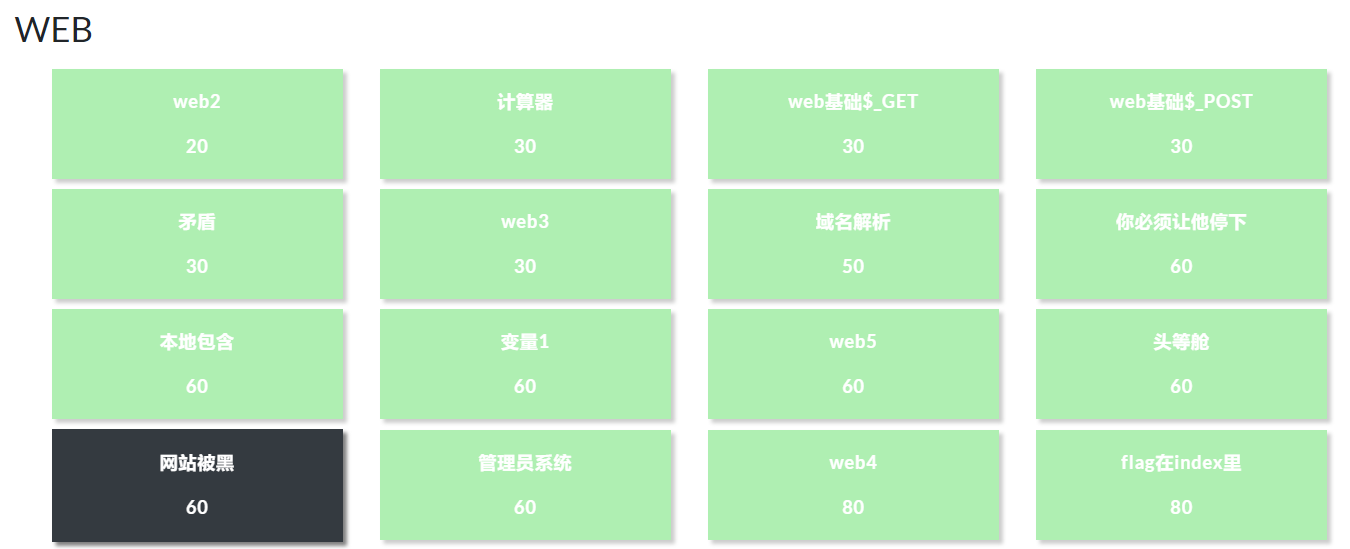
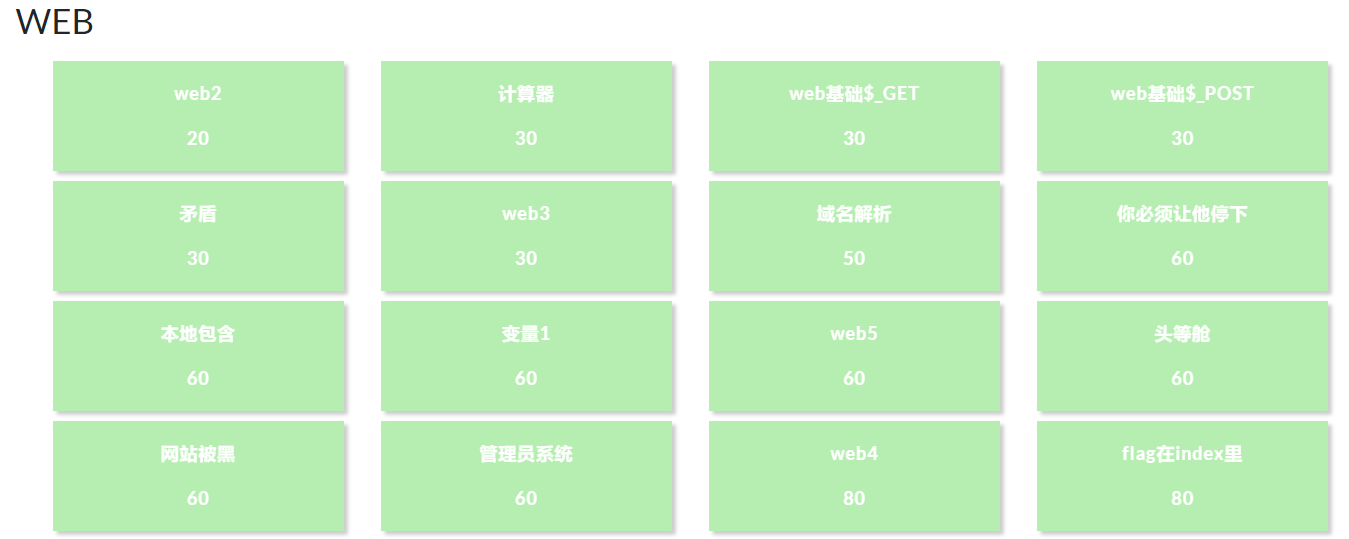
[^] Update Bugku_web2

diff --git a/_posts/2019-10-24-Bugku_web2.md b/_posts/2019-10-24-Bugku_web2.md
@@ -16,7 +16,7 @@ comments: true
 - [0x02 变量1](#2)
 - [0x03 Web5](#3)
 - [0x04 头等舱](#4)
-- [0x05 网站被黑（失败）](#5)
+- [0x05 网站被黑](#5)
 - [0x06 管理员系统](#6)
 - [0x07 Web4](#7)
 - [0x08 flag在index里](#8)
@@ -139,9 +139,26 @@ flag 在 response 的头里送上门了~
 
 ![](https://github.com/Aquilao/Blog/raw/master/assets/img/BugkuCTF-img/Web2/5_1.png)
 
-这描述好谦虚啊，希望和他说的一样
+打开一看是个黑页，啥也没有
 
-结果没做出来，以后再挑战~
+![](https://github.com/Aquilao/Blog/raw/master/assets/img/BugkuCTF-img/Web2/5_2.png)
+
+就扫了扫目录
+
+![](https://github.com/Aquilao/Blog/raw/master/assets/img/BugkuCTF-img/Web2/5_3.png)
+
+扫到个 shell.php，访问康康
+
+![](https://github.com/Aquilao/Blog/raw/master/assets/img/BugkuCTF-img/Web2/5_4.png)
+
+看起来是个 webshell，可以尝试爆破一波
+
+![](https://github.com/Aquilao/Blog/raw/master/assets/img/BugkuCTF-img/Web2/5_5.png)
+
+输入密码，拿到 flag
+
+![](https://github.com/Aquilao/Blog/raw/master/assets/img/BugkuCTF-img/Web2/5_6.png)
+
 
 
 

diff --git a/_posts/2018-4-25-learn_github_assets_server.md b/_posts/2018-4-25-learn_github_assets_server.md
@@ -8,6 +8,22 @@ tag:
 comments: true
 ---
 
+———————————————————— 更新 ————————————————————
+**国内`raw.githubusercontent.com`已经被 dns 污染了，包括我的 Blog 图片在内的文件国内正常情况无法访问，权宜之计只能修改一下 host 文件**
+
+Windows 的 hosts 文件路径：
+
+> c:\windows\system32\drivers\etc\hosts
+
+Linux 的 hosts 文件路径：
+
+> /etc/hosts
+
+在其中加一行
+
+> 199.232.4.133 raw.githubusercontent.com
+
+———————————————————— 原文 ————————————————————
 
 刚开始在 GitHub 上搭建 Blog 时遇到了个问题，上传到仓库里的图片无法在网页中被加载出来。朋友们都推荐我用七牛的图床，但由于我懒得去注册，所以决定另找办法。
 
